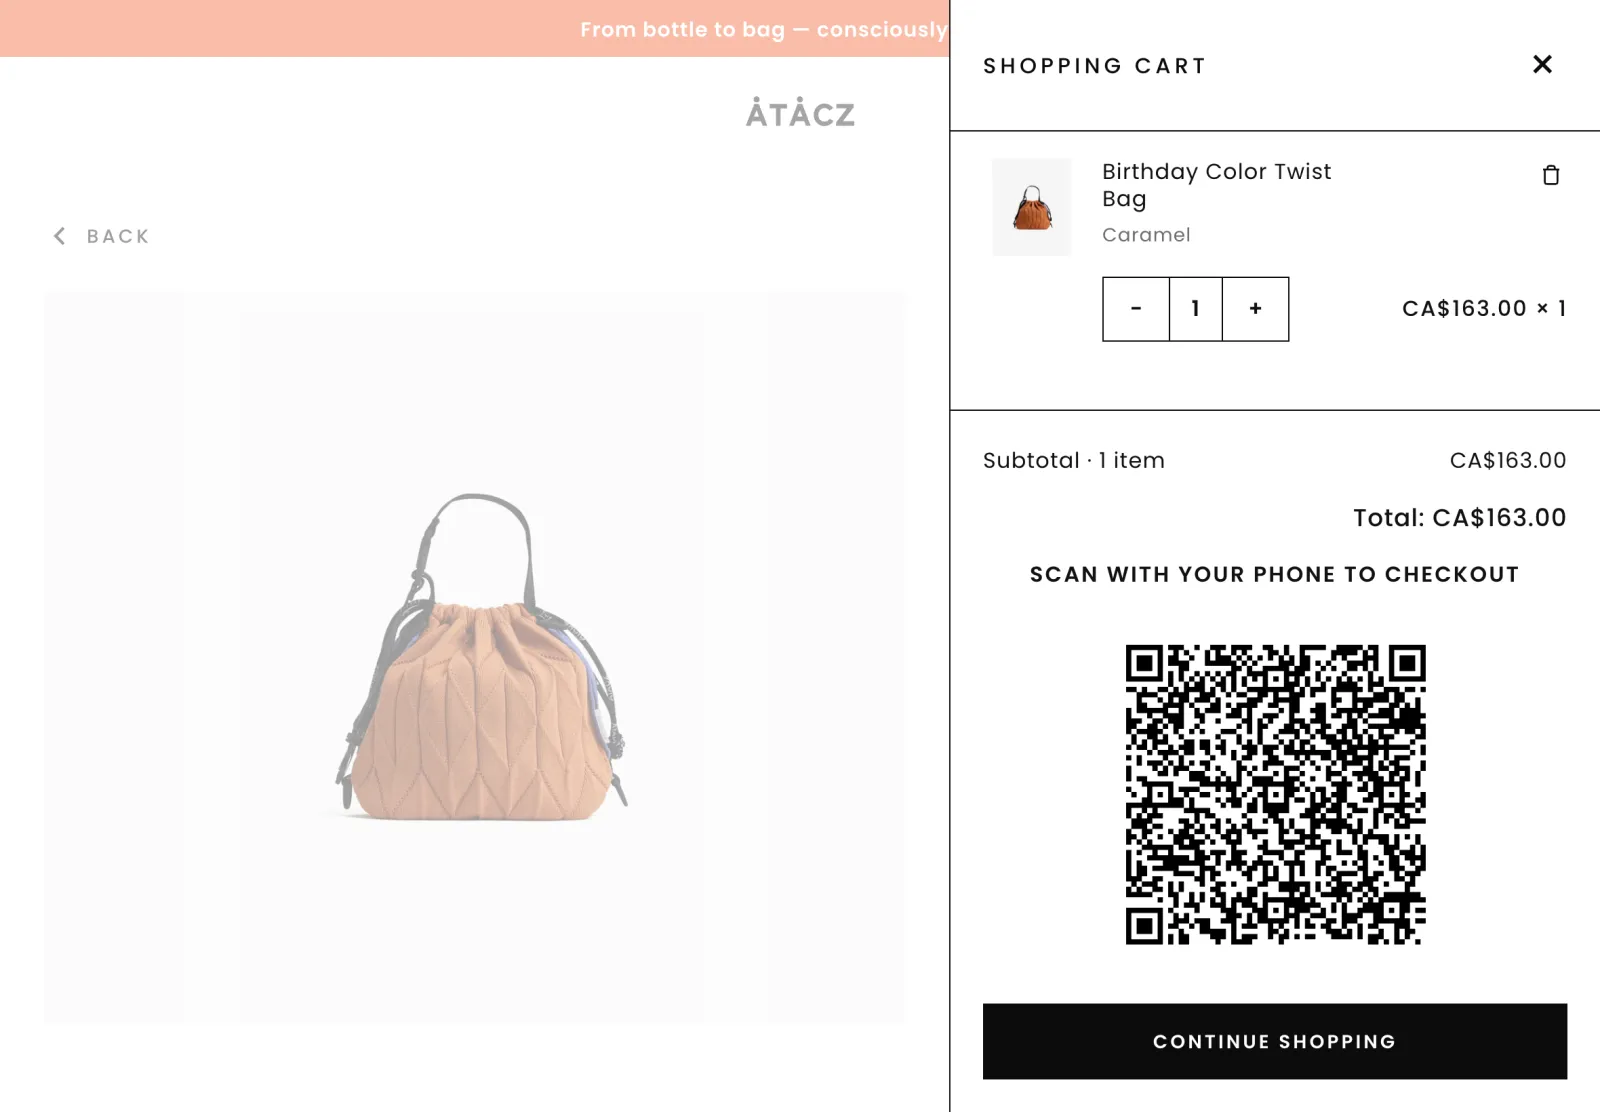
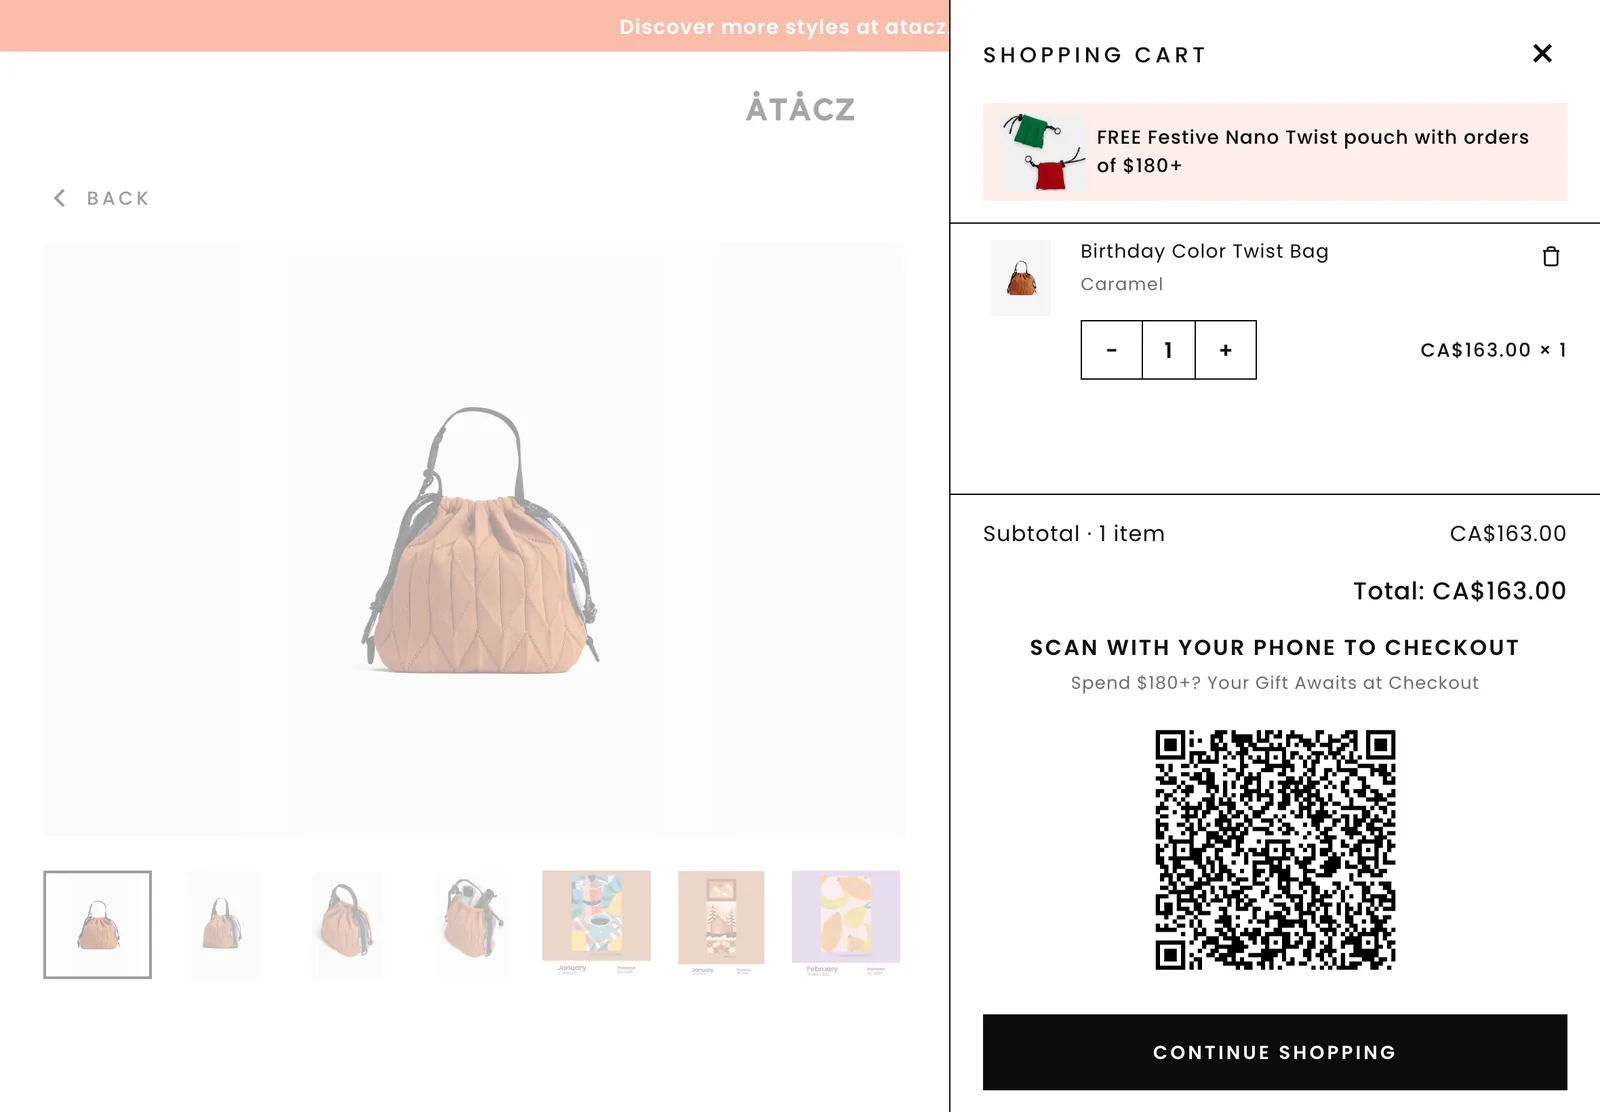
Tri-City case: kiosk product page and cart re-captured from the published version
Cart now shows the GWP band, the $180 line and the 202px QR, matching D05;
hotspots re-measured (product page content moved up 32px).

Claude-Session: https://claude.ai/code/session_015ACTf6BtAWLJxpQfwtao9r

diff --git a/product/tricity-popup/index.html b/product/tricity-popup/index.html
@@ -230,13 +230,13 @@
             </div>
             <nav class="kx__tabs" aria-label="Kiosk tabs, as rendered in the demo"><label class="kx__tab kx__tab--twist" for="ks-twist">Birthday Twist</label><label class="kx__tab kx__tab--straps" for="ks-straps">Birthday Straps</label><label class="kx__tab kx__tab--pins" for="ks-pins">Birthday Pins</label></nav>
             <label class="ks__hot ks__hot--twist" for="ks-pdp" style="left: 0.00%; top: 14.63%; width: 100.00%; height: 73.17%"><span class="sr-only">Open the product</span></label>
-            <label class="ks__hot ks__hot--scene" for="ks-cart" style="left: 93.22%; top: 4.88%; width: 4.75%; height: 6.83%"><span class="sr-only">Open the cart</span></label>
-            <label class="ks__hot ks__hot--pdp" for="ks-twist" style="left: 2.12%; top: 18.29%; width: 9.32%; height: 6.10%"><span class="sr-only">Back</span></label>
-            <label class="ks__hot ks__hot--pdp" for="ks-cart" style="left: 61.36%; top: 85.37%; width: 35.93%; height: 6.34%"><span class="sr-only">Add to cart</span></label>
-            <label class="ks__hot ks__hot--cart" for="ks-pdp" style="left: 94.07%; top: 2.44%; width: 4.75%; height: 6.83%"><span class="sr-only">Close the cart</span></label>
-            <label class="ks__hot ks__hot--cart" for="ks-pdp" style="left: 61.44%; top: 90.24%; width: 36.53%; height: 6.83%"><span class="sr-only">Continue shopping</span></label>
+            <label class="ks__hot ks__hot--scene" for="ks-cart" style="left: 93.22%; top: 6.22%; width: 4.75%; height: 6.83%"><span class="sr-only">Open the cart</span></label>
+            <label class="ks__hot ks__hot--pdp" for="ks-twist" style="left: 2.71%; top: 14.88%; width: 6.78%; height: 5.85%"><span class="sr-only">Back</span></label>
+            <label class="ks__hot ks__hot--pdp" for="ks-cart" style="left: 61.36%; top: 80.98%; width: 35.93%; height: 6.34%"><span class="sr-only">Add to cart</span></label>
+            <label class="ks__hot ks__hot--cart" for="ks-pdp" style="left: 94.83%; top: 1.95%; width: 3.14%; height: 5.85%"><span class="sr-only">Close the cart</span></label>
+            <label class="ks__hot ks__hot--cart" for="ks-pdp" style="left: 61.44%; top: 91.22%; width: 36.53%; height: 6.83%"><span class="sr-only">Continue shopping</span></label>
             <img class="ks__shot ks__shot--pdp" src="../../assets/case/06-tricity-popup/kiosk-pdp.webp" alt="The product page: colours as photo tiles, the chosen one outlined." width="1600" height="1112" loading="lazy">
-            <img class="ks__shot ks__shot--cart" src="../../assets/case/06-tricity-popup/kiosk-cart.webp" alt="The cart: scan the QR code to pay on your own phone." width="1600" height="1112" loading="lazy">
+            <img class="ks__shot ks__shot--cart" src="../../assets/case/06-tricity-popup/kiosk-cart.webp" alt="The cart: the gift-with-purchase band under the title, then a QR code to pay on your own phone." width="1600" height="1112" loading="lazy">
           </div>
         </div>
         <div class="demo__controls">
@@ -254,8 +254,6 @@
       <p><strong>Past the 20,000-character cap.</strong> The three scenes did not fit. The app also accepts font stylesheet URLs, which it loads as ordinary <code>&lt;link&gt;</code> tags, so the scenes moved into a stylesheet hosted in Shopify Files, with no size limit. Every edit is uploaded under a new file name, so the iPad cannot change before a version is published.</p>
       <p><strong>Tabs you tap, not swipe.</strong> Because the app owns the swipe, the tab row became a navigation bar at the bottom centre. It rises first, and an underline grows under the open tab.</p>
       <p><strong>The store&rsquo;s product page, inside the app.</strong> It takes the live theme&rsquo;s type and button sizes. Colours are photo tiles instead of text pills, with a 2px outline on the chosen one. The app paints the selected option with a forced background colour; rather than fight it with <code>!important</code>, the tile redefines the variable that rule reads.</p>
-      <!-- 장바구니 문단(QR 축소·GWP 띠)은 11-17 기준 키오스크 게시 대기였다 — 게시 확인 후 이 주석 삭제 /
-           Cart paragraph (smaller QR, GWP band) was awaiting publish on 17 Nov — delete this note once published -->
       <p><strong>A cart you can read at a glance.</strong> The QR code shrank from 252 to 202px, so two and a half items show at once instead of one. A band under the cart title shows the gift-with-purchase pouch: a free Festive Nano Twist with orders of $180 or more.</p>
     </section>
 

diff --git a/SESSION-LOG.md b/SESSION-LOG.md
@@ -137,3 +137,9 @@ All in `product/header/` and the root site's `work-4.html` (kept in step, per th
 - Kiosk viewer (D04, `[data-demo-kiosk]`, radios, no JS): five screens captured with Playwright from `kiosk.storecheckin.com/?preview_url=<location json>` at 1180×820 @2x, preview banner hidden, focus blurred. The location preview file was still v3068 on 18 Nov, so the cart shows the 252px QR and no GWP band — re-capture after the pending CSS is published.
 - Follow-up 2 (Han): phone copy back at the live position (190px, a little overlap is fine), threads by the live formula for a 640px screen ((640 − 300)/700). Only desktop keeps the copy in the gap. Kiosk viewer: hotspots over the captures — tab bar (3 tabs), scene → product page, Back, Add to cart → cart, cart icon, close / Continue shopping — verified by clicking through at 1440 and 390; the radio row stays for keyboard.
 - Kiosk viewer animated (Han: "the kiosk is animated — the same, please"): the three tab scenes are now HTML, one box per ornament with the **same declarations** as `kiosk-birthday-scenes-source.css` (scenes-8, theme repo `docs/kiosk-birthday-ornaments` `5a8fec5`): x/l/w/d/i/--sd per card, paint order = the app's DOM order, 1vh = 8.2px, the --c colour-name SVGs copied verbatim. Text over the scenes = transparent captures (`kiosk-o-*.webp`, ornaments stripped with `--t: initial`, tab bar hidden, `omitBackground`). Tab bar rebuilt from the base kiosk CSS (rise 0.7s, underline grows 0.35s, press 0.94) as real `<label for>` tabs. Canvas scaled by `--k` (case.js 6k); motion starts on screen. Switching tabs re-attaches the scene, so it drops again, as on the iPad. Static tab captures removed. Pins/strap photos from atacz.ca (24 webp).
+
+## 2026-11-20 — kiosk captures brought up to the published version
+
+- Location preview file now carries the 11-16/17 cart work (Custom CSS 17,896, scenes-8). Re-captured `kiosk-pdp.webp` and `kiosk-cart.webp` (1180×820 @2x → 1600×1112): the cart now shows the GWP band, the "Spend $180+" line and the 202px QR, matching D05; the HTML "pending publish" note is gone.
+- Product page content sits 32px higher than in v3068, so the hotspots were re-measured from the live DOM (Back 32,122,80×48; Add to cart 724,664,424×52; cart close 1119,16,37×48; Continue 725,748,431×56; cart icon 1100,51).
+- scenes-9 (theme repo `3049bee`, still unpublished) only widens the Straps list selector; no visual change, so the scenes were left as they are.

diff --git a/TODO.md b/TODO.md
@@ -27,8 +27,8 @@ One case for the pop-up LP (`/pages/tricity-pop-up`) and the event RSVP (`/pages
 - [ ] Han: does Decision 03 (reference page stored guests outside the store) belong in a public case?
 - [ ] After 28 Nov: RSVPs per slot (metafield `custom.event_rsvp_counts`), attendance, LP sessions (GA4) — with dates.
 - [ ] Kiosk (Decisions 03–04, added 18 Nov from the theme repo's kiosk log, branch `docs/kiosk-birthday-ornaments`): the cart paragraph (QR 202px, GWP band) was awaiting publish on 17 Nov — confirm the location config carries it, then drop the HTML note. Reason for putting the ornaments on the kiosk — Han.
-- [ ] Kiosk scenes copy scenes-8; if the kiosk layout changes, re-copy the values and re-capture the text overlays (`kiosk-o-*.webp`).
-- [ ] Kiosk product page / cart captures (`kiosk-pdp.webp`, `kiosk-cart.webp`) are v3068: re-capture once the 17 Nov cart CSS is published, so the cart matches the D05 paragraph (202px QR, GWP band).
+- [ ] Kiosk scenes copy scenes-8 (scenes-9, pending publish on 20 Nov, only changes which photo marks the Straps list — nothing visible); if the kiosk layout changes, re-copy the values and re-capture the text overlays (`kiosk-o-*.webp`).
+- [x] Kiosk product page / cart re-captured 20 Nov from the published location (CSS 17,896, scenes-8): GWP band, $180 line, 202px QR. Hotspots re-measured.
 - [ ] Recordings: ornament drop + click (desktop, phone), RSVP booking. No customer names or emails in any capture.
 - [ ] Decision 03 (guest list) is on hold until after the event (Han, 18 Nov) — moved from 05 to sit next to the RSVP decision.
 - [ ] Ornament demo (Decision 01) copies the live `popup-drape` values as of 18 Nov. If the owner retunes the LP, re-copy them (positions, lengths, sizes, sway, `--title-blur`).
